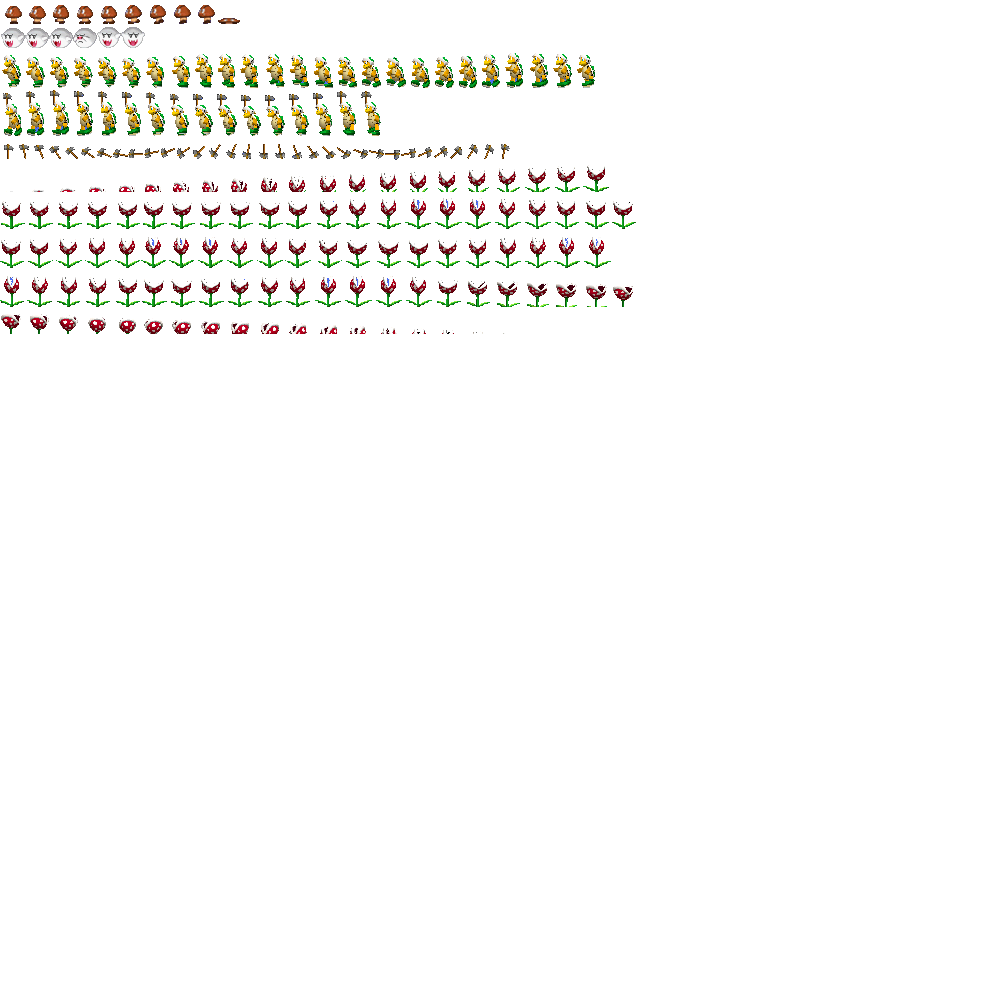
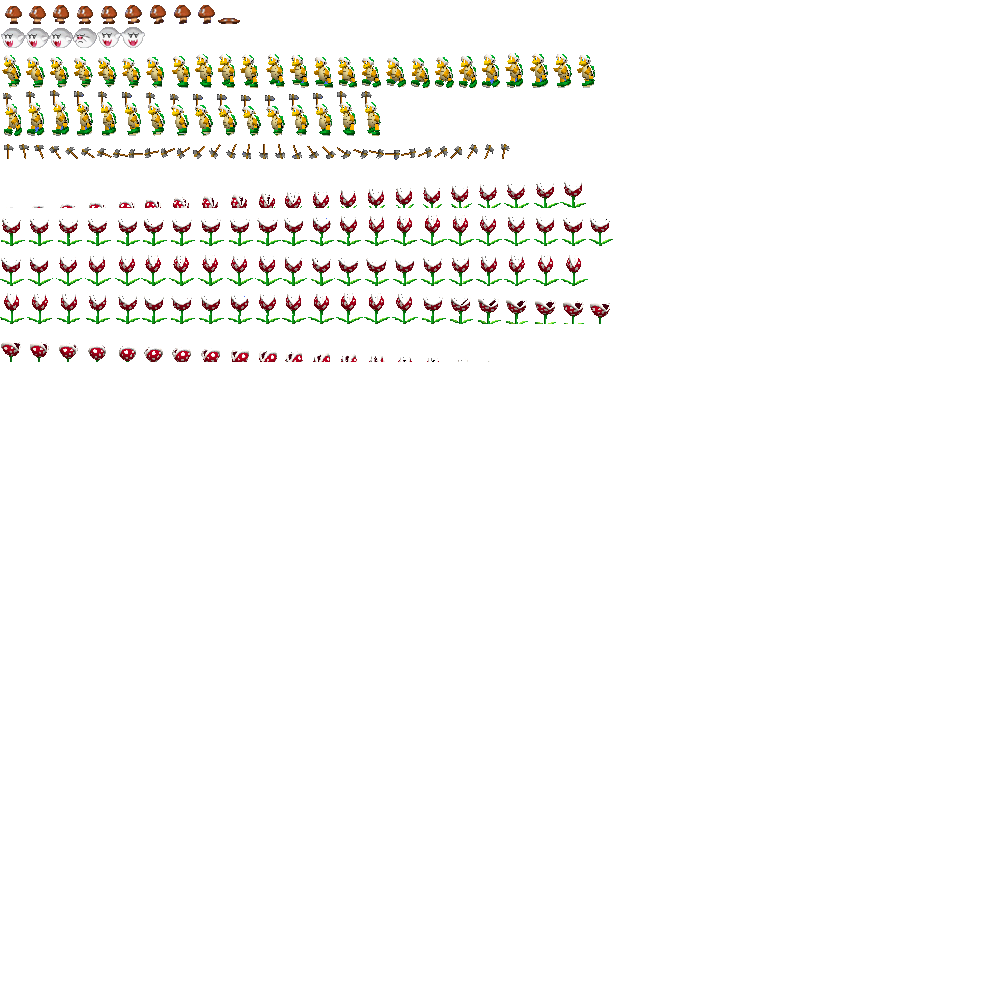
plant 완성

Changed region(s): [[0.0, 0.155, 0.651, 0.372]]

diff --git a/newSuperMario/Monster_class.py b/newSuperMario/Monster_class.py
@@ -452,3 +452,93 @@ class Hammer:
         return self.x - 16, self.y - 16, self.x + 16, self.y + 14
 
 
+
+class plant:
+    image = None
+    size = [56, 76]
+    def __init__(self, x, y, dir=-1,minx = -10000, maxx = 10000):
+        self.x = x
+        self.y = y
+        self.movex = 0
+        self.move2x = 0
+        self.movey = 0
+        self.move2y = 0
+        self.crex = x
+        self.crey = y
+        self.dir = dir
+        self.frame = 0
+        self.framey = 0
+        self.g = 0
+        self.timer = 1.0
+        self.die = False
+        self.minx = minx
+        self.maxx = maxx
+
+        self.build_behavior_tree()
+        if plant.image == None:
+            plant.image = load_image('Monster.png')
+
+    def update(self):
+        if self.die == False:
+            self.bt.run()
+            self.frame = (self.frame + 40 * game_framework.frame_time)
+            if self.framey == 0 or self.framey == 2 or self.framey == 4:
+                if self.frame >= 21:
+                    self.frame = 0
+                    self.framey += 1
+                    if self.framey >= 5:
+                        self.framey = 0
+            elif self.framey == 1 or self.framey == 3:
+                if self.frame >= 22:
+                    self.frame = 0
+                    self.framey += 1
+                    if self.framey >= 5:
+                        self.framey = 0
+
+            self.check()
+        else:
+            self.timer -= game_framework.frame_time
+
+            if self.timer <= 0:
+                self.timer = 1.0
+                game_world.remove_object(self)
+        self.x = self.crex + self.movex + self.move2x
+        self.y = self.crey + self.movey + self.move2y
+
+
+
+    def move(self):
+        # self.move2x += self.dir * 0.9 * 100 * game_framework.frame_time
+        return BehaviorTree.SUCCESS
+
+    def build_behavior_tree(self):
+        move_node = LeafNode("move", self.move)
+
+        self.bt = BehaviorTree(move_node)
+
+
+    def draw(self):
+        if self.die == False:
+            if self.dir == -1:
+                self.image.clip_draw(int(self.frame) * 28, 792 - 39 * int(self.framey), 28, 32, self.x, self.y, self.size[0], self.size[1])
+            else:
+                self.image.clip_composite_draw(int(self.frame) * 28, 792 - 39 * int(self.framey), 28, 32, 0, 'h', self.x, self.y,
+                                               self.size[0], self.size[1])
+        else:
+            self.image.clip_draw(int(self.frame) * 28, 792 - 39 * int(self.framey), 28, 32, self.x, self.y, self.size[0], self.size[1])
+
+        draw_rectangle(*self.get_bb())
+
+
+
+    def get_bb(self):
+        if int(self.frame) < 15 and self.framey == 0:
+            return self.x - 20, self.y - 15, self.x + 20, self.y - 30 + int(self.frame)*2
+        elif self.framey == 4:
+            return self.x - 20, self.y - 15, self.x + 20, self.y + 30 - int(self.frame)*2
+        return self.x - 20, self.y - 30, self.x + 20, self.y + 30
+
+    def check(self):
+        pass
+
+

diff --git a/newSuperMario/Mario_class.py b/newSuperMario/Mario_class.py
@@ -748,10 +748,21 @@ class hero:
 
                 if block.die == False:
                     if contact_aAndb(self, block) == 2:  # 위서 아래로
-                        self.JUMP = True
-                        self.g = 400
-                        block.die = True
-                        block.timer = 1.0
+                        if block.__class__.__name__ == "plant":
+                            if self.grow > 0:
+                                self.grow -= 1
+                                self.IVtimer = 1.0
+                            else:
+                                self.add_event(DIE)
+                                self.g = 1100.0
+                                DEL_TIME = 0
+                                self.JUMP = True
+                                self.frame = 0
+                        else:
+                            self.JUMP = True
+                            self.g = 400
+                            block.die = True
+                            block.timer = 1.0
                     elif contact_aAndb(self, block) == 3:  # 좌우
                         if self.grow > 0:
                             self.grow -= 1

diff --git a/newSuperMario/Main_state.py b/newSuperMario/Main_state.py
@@ -21,7 +21,7 @@ def enter():
     global map1_1
     global SET_BLOCK
     global CHANGE_TIME; global CHANGE_image; global CHANGE_INOUT
-    map1_1 = map(1)
+    map1_1 = map(0)
 
     game_world.add_object(map1_1, 0)
     mapcreate(map1_1)
@@ -197,6 +197,9 @@ def mapcreate(map):
         #
         # monsters.append(Monster_class.Hammer_bros(1421 * 2.5, (14 + 12) * 2.5, -1,-221 * 2.5, 221 * 2.5))
 
+        monsters.append(Monster_class.plant(990 * 2.5, (46 + 14) * 2.5))
+        monsters.append(Monster_class.plant(2318 * 2.5, (46 + 14) * 2.5))
+
         grounds.append(object_class.Ground(0, 0, 2914, 35))
         grounds.append(object_class.Ground(434 * 2.5, 0, 514 * 2.5, 30 * 2.5))
         grounds.append(object_class.Ground(512 * 2.5, 0, (514+92) * 2.5, 62 * 2.5))
@@ -328,7 +331,7 @@ def mapcreate(map):
 
 
 
-    else:
+    elif map.stage == 1:
         mario = hero(40, 200)
 
         grounds.append(object_class.Ground(0 * 2.5, 42 * 2.5, 94 * 2.5, 58 * 2.5))

diff --git a/newSuperMario/Life_state.py b/newSuperMario/Life_state.py
@@ -10,7 +10,7 @@ image = None
 logo_time = 0.0
 
 def enter():
-    global image, ROUND
+    global image
 
     game_world.clear()
 
@@ -31,7 +31,7 @@ def update():
     logo_time += game_framework.frame_time
 
 def draw():
-    global image, ROUND
+    global image
     clear_canvas()
     image.clip_composite_draw(0, 0, 1024, 600, 0, '', 512, 300,1024, 600)
     update_canvas()

diff --git a/newSuperMario/Start_state.py b/newSuperMario/Start_state.py
@@ -8,15 +8,19 @@ name = "StartState"
 image = None
 logo_time = 0.0
 
+ROUND = None
+LIFE = None
 
 def enter():
     global image
-    global marioLife
     image = load_image('Mario_credit.png')
-    marioLife = 5
 
 def exit():
     global image
+    global ROUND, LIFE
+    ROUND = 0
+    LIFE = 5
+
     del(image)
 
 

diff --git a/newSuperMario/object_variable.py b/newSuperMario/object_variable.py
@@ -1,5 +1,8 @@
 mario = None
 
+ROUND = None
+LIFE = None
+
 # ground
 grounds = []
 # block
